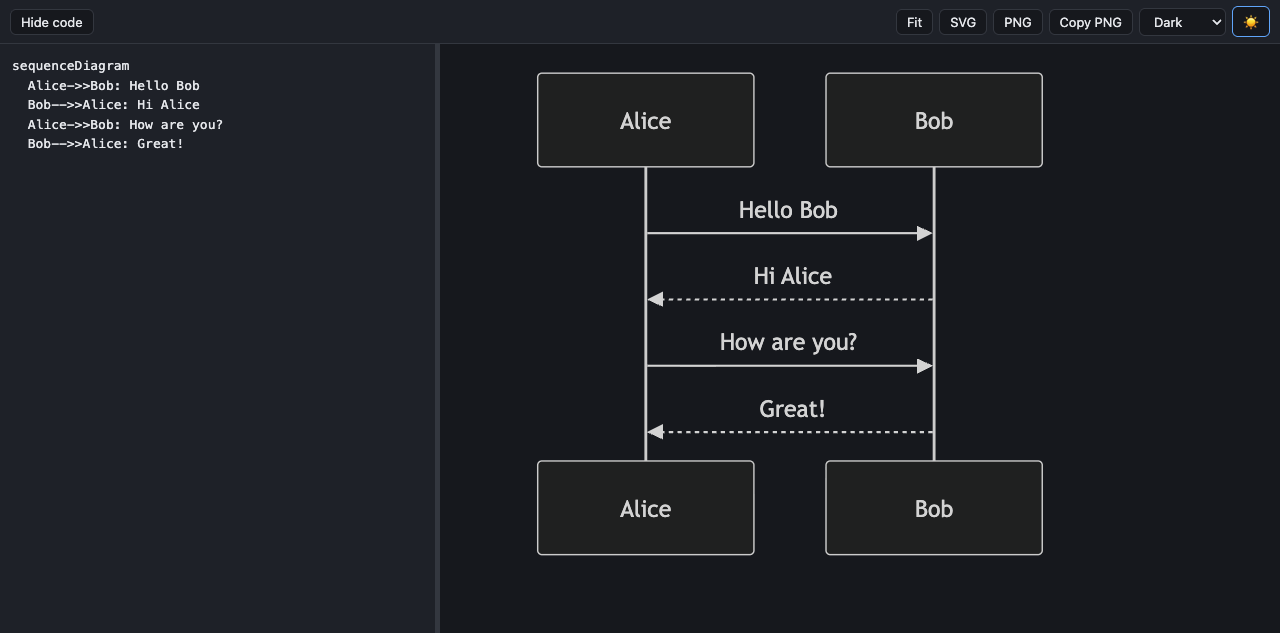
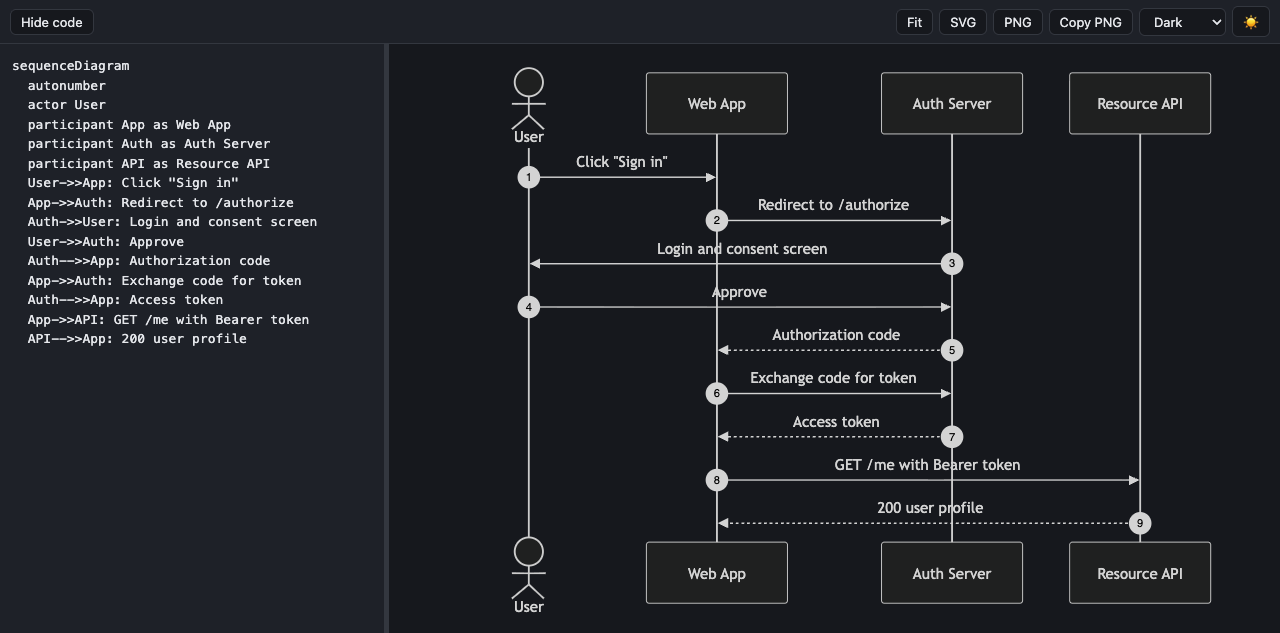
docs: refresh README screenshots with richer example diagrams

diff --git a/README.md b/README.md
@@ -2,7 +2,7 @@
 
 A fully offline [Mermaid](https://mermaid.js.org/) diagram viewer that ships as **one self-contained HTML file**. Paste a diagram, see it rendered instantly — no internet, no install, no account, no build step for the user. Just open the file in any browser.
 
-![mermview light mode](docs/screenshot-light.png)
+![mermview rendering a CI/CD pipeline flowchart in light mode](docs/screenshot-light.png)
 
 ## Why
 
@@ -22,7 +22,7 @@ mermview is the antidote: a single `index.html` with the entire Mermaid renderer
 - **Resizable, collapsible editor** — drag the divider, or hide the code pane entirely and give the diagram the full window
 - **Every Mermaid diagram type** — flowcharts, sequence, class, state, ER, gantt, pie, mindmaps, and everything else Mermaid supports
 
-![mermview dark mode with a sequence diagram](docs/screenshot-dark.png)
+![mermview rendering an OAuth 2.0 sequence diagram in dark mode](docs/screenshot-dark.png)
 
 ## Getting started
 
